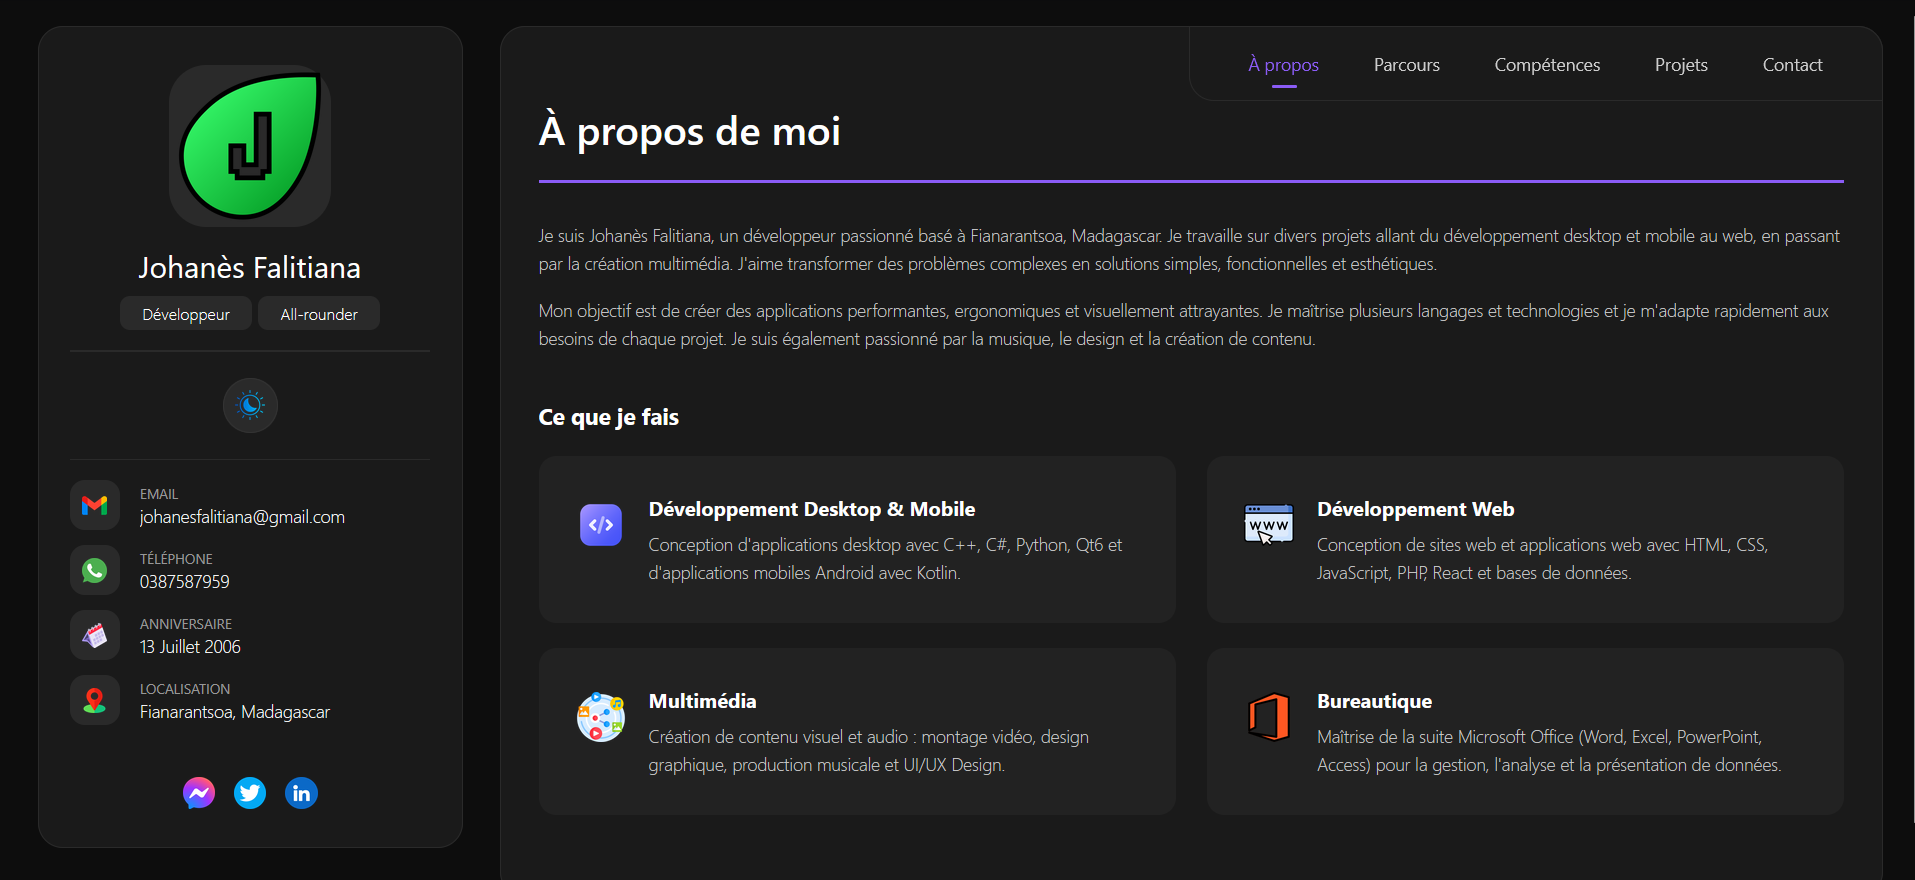
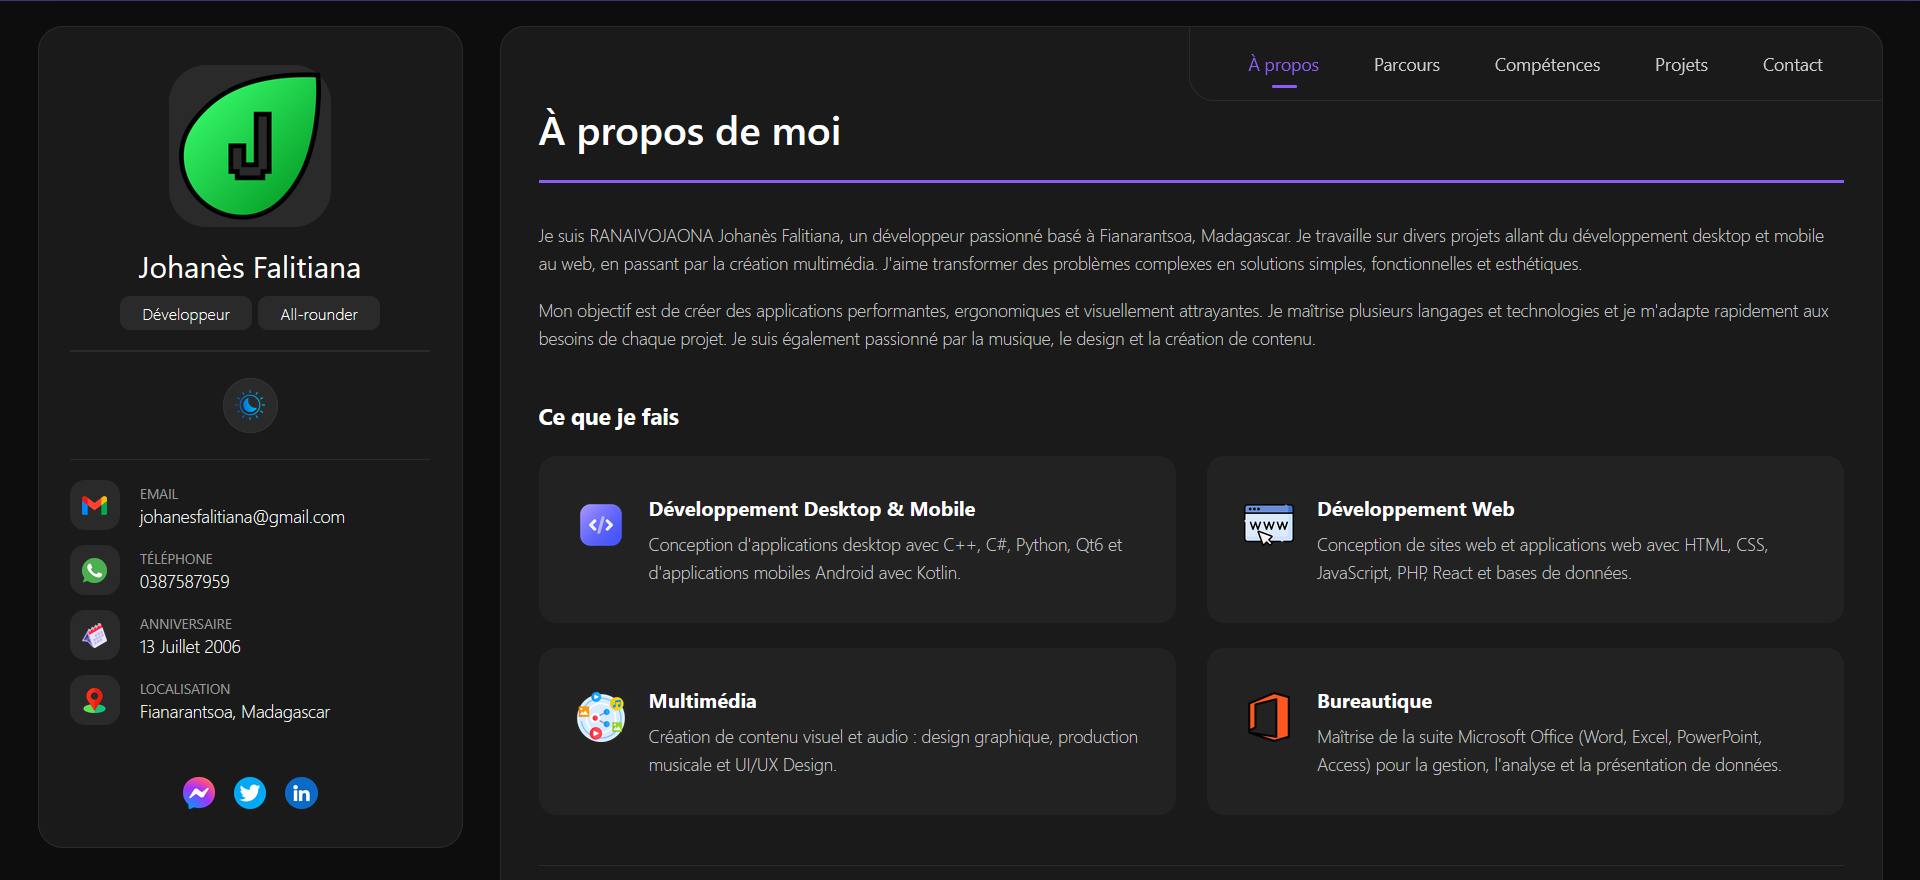
03/09

diff --git a/index.html b/index.html
@@ -301,10 +301,10 @@
           </section>
 
           <section class="section-cv">
-            <h3 class="titre-service">Mon CV</h3>
+            <h3 class="titre-service">Curriculum Vitæ</h3>
             <div class="cv-container">
               <p class="cv-description">
-                Téléchargez mon CV pour en savoir plus sur moi.
+                Télécharger mon CV pour avoir le résumé
               </p>
               <div class="cv-boutons">
                 <button

diff --git a/README.md b/README.md
@@ -1,39 +1,44 @@
-# Portfolio de Johanès Falitiana
+# 🍀Johanès Falitiana
 
-Colorons le monde au-delà des lignes 🎨
+🎨Colorons le monde au-delà des lignes
 
 ## 🎗 À propos
 
-Je suis Johanès Falitiana, un développeur polyvalent spécialisé dans le développement desktop, mobile et web. Ce portfolio présente mes compétences, mes projets et mon parcours.
+Je suis Johanès Falitiana, un développeur polyvalent spécialisé dans le développement desktop, mobile et web.
+Ce portfolio présente mes compétences, mes projets et mon parcours.
 
-## 🛠 Technologies utilisées
+## 📷 Captures d'écran
 
-- **HTML5**
-- **CSS3**
-- **JavaScript**
-- 
----
+### Page d'accueil (Mode Clair)
 
-## 📸 Captures d'écran
+<img src="captures/accueillight.png" width="600"/>
 
-### 🏠 Page d'accueil (Mode Clair)
-<img src="captures/accueil.png" width="600"/>
+### Page d'accueil (Mode Sombre)
 
-### 🌙 Page d'accueil (Mode Sombre)
 <img src="captures/accueildark.png" width="600"/>
 
+### 🔖 Parcours
+
+<img src="captures/parcours.png" width="600"/>
+
+### 🏷 Projets
+
+<img src="captures/projets1.png" width="600"/>
+<img src="captures/projets2.png" width="600"/>
+
+### ♠ Compétences
+
+<img src="captures/skills1.png" width="600"/>
+<img src="captures/skills2.png" width="600"/>
+<img src="captures/skills3.png" width="600"/>
+
 ### 📞 Page de contact
+
 <img src="captures/contact.png" width="600"/>
-
-### 📂 Projets
-<img src="captures/projets.png" width="600"/>
-
-### 🛠 Compétences
-<img src="captures/skills.png" width="600"/>
 
 ---
 
-## 📂 Structure du projet
+## 🌳 Arborescence
 
 Johanes/
 
@@ -42,37 +47,38 @@ Johanes/
 ├── johanes.css # Styles
 
 ├── johanes.js # Fonctionnalités JavaScript
+└── images/\* # Images et icônes
 
-    └── images/ # Images et icônes
-├── captures/ # Images
+├── captures/ # Images des captures d'écrans
 
-## 📊 Compétences
+## 🎖 Compétences
 
-| Catégorie       | Compétences                                             |
-| --------------- | ------------------------------------------------------- |
-| **Langages**    | Python, HTML5, CSS3, JavaScript, PHP, Kotlin, C++, C#   |
-| **Frameworks**  | React, Qt6, .NET 8.0                                    |
-| **Design**      | UI/UX Design, Figma, Montage vidéo, Production musicale |
-| **Langues**     | Malagasy (100%), Français (95%), Anglais (85%)          |
-| **Bureautique** | Microsoft Office (Word, Excel, PowerPoint, Access)      |
+| Catégorie       | Compétences                                           |
+| --------------- | ----------------------------------------------------- |
+| **Langages**    | Python, HTML5, CSS3, JavaScript, PHP, Kotlin, C++, C# |
+| **Frameworks**  | React, Qt6, .NET 8.0                                  |
+| **Graphiques**  | Lunacy UI/UX, Affinity Illustrator, FL Studio         |
+| **Langues**     | Malagasy, Français ,Anglais                           |
+| **Bureautique** | Suites Office (Word, Excel, PowerPoint, Access)       |
 
-## 📱 Projets mis en avant
+## 📱 Projets realisé
 
-| Projet           | Description           | Technologies            |
-| ---------------- | --------------------- | ----------------------- |
-| **RAMP**         | Application web       | HTML5, CSS3, JavaScript |
-| **JojohExpress** | Site web dynamique    | HTML5, CSS3, JS, PHP    |
-| **Schoolar**     | Application éducative | React, PHP, Chart.js    |
-| **CopyBoost**    | Outil de copie        | C#, .NET 8.0, Robocopy  |
-| **JBacc**        | Application mobile    | Kotlin, Android         |
-| **JNotes**       | Application mobile    | Kotlin, Android         |
+| Projet           | Platformes         | Technologies utlisé     |
+| ---------------- | ------------------ | ----------------------- |
+| **RAMP**         | Web                | HTML5, CSS3, JavaScript |
+| **JojohExpress** | Web                | HTML5, CSS3, JS, PHP    |
+| **Schoolar**     | Web                | React, PHP, Chart.js    |
+| **JojohExpress** | Web                | C#, .NET 8.0, Robocopy  |
+| **CopyBoost**    | Desktop/Windows    | C#, .NET 8.0, Robocopy  |
+| **JBacc**        | Application mobile | Kotlin, Android         |
+| **JNotes**       | Application mobile | Kotlin, Android         |
+| **JHotel**       | Application mobile | Kotlin, Android         |
 
-## 📧 Contact
+## 📨 Contact
 
-- **Email** : [falitianajohanes@gmail.com](mailto:falitianajohanes@gmail.com)
 - **WhatsApp** : [+261 38 75 879 59](https://wa.me/261387587959)
 
-## 📄 Licence
+## 📜 Licence
 
 Ce projet est open source et disponible sous licence MIT.
 
